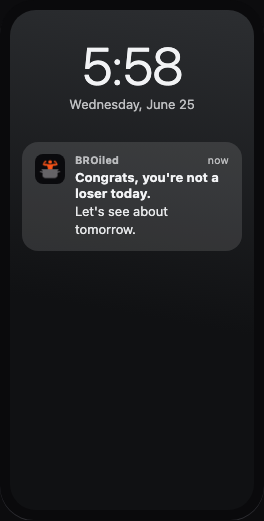
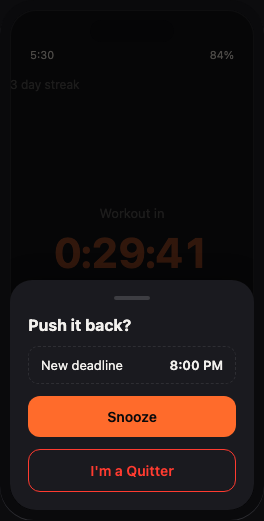
Add 12:00 PM morning reckoning push notification (frame 04).
Document the noon reckoning in plan workflow, wireframes, and README; renumber subsequent frames 05–12 and regenerate screenshots.

diff --git a/wireframes.html b/wireframes.html
@@ -267,11 +267,30 @@
           <div class="btn float">I already worked out</div>
         </div>
       </div></div>
-      <div class="note">Reckoning banner is now absolutely positioned at the top (out of flow), so the timer centers on the full screen exactly like frame 02 instead of being pushed down by the banner. Shown once, on first open the morning after a miss.</div>
+      <div class="note">Reckoning banner is absolutely positioned at the top (out of flow), so the timer centers on the full screen exactly like frame 02. Shown on first open the morning after a miss. Same copy also fires as a <b>12:00 PM push</b> (frame 04) if the user hasn't opened the app yet.</div>
+    </div>
+
+    <div class="card" id="frame-04">
+      <div class="step"><span class="num mono">04</span><span class="title">Notification — morning reckoning</span></div>
+      <div class="phone"><div class="lockscreen">
+        <div class="locktime">12:00</div>
+        <div class="lockdate">Thursday, June 26</div>
+        <div class="notifcard">
+          <div class="notif-icon">
+            <img src="logo.png" alt="BROiled" width="30" height="30" />
+          </div>
+          <div class="notif-body">
+            <div class="notif-app"><span class="brand">BROiled</span><span>now</span></div>
+            <div class="notif-title">You failed yesterday.</div>
+            <div class="notif-msg">Is this who you are, or can you be better today?</div>
+          </div>
+        </div>
+      </div></div>
+      <div class="note">Fires at <b>12:00 PM</b> the day after a missed workout — same copy as frame 03. Tapping opens home with the reckoning banner + today's countdown. Skipped if the user already opened the app and saw frame 03 today.</div>
     </div>
 
     <div class="card">
-      <div class="step"><span class="num mono">04</span><span class="title">Gut-check sheet</span></div>
+      <div class="step"><span class="num mono">05</span><span class="title">Gut-check sheet</span></div>
       <div class="phone"><div class="screen">
         <div class="island"></div>
         <div class="statusbar"><span>5:47</span><span>88%</span></div>
@@ -304,7 +323,7 @@
   <div class="rail">
 
     <div class="card">
-      <div class="step"><span class="num mono">05</span><span class="title">Notification — T-30min reminder</span></div>
+      <div class="step"><span class="num mono">06</span><span class="title">Notification — T-30min reminder</span></div>
       <div class="phone"><div class="lockscreen">
         <div class="locktime">5:30</div>
         <div class="lockdate">Wednesday, June 25</div>
@@ -323,7 +342,7 @@
     </div>
 
     <div class="card">
-      <div class="step"><span class="num mono">06</span><span class="title">Notification — miss check</span></div>
+      <div class="step"><span class="num mono">07</span><span class="title">Notification — miss check</span></div>
       <div class="phone"><div class="lockscreen">
         <div class="locktime">6:30</div>
         <div class="lockdate">Wednesday, June 25</div>
@@ -341,8 +360,8 @@
       <div class="note">Fires at <b>deadline + workout duration + 30min.</b> Copy scales with streak. Tapping opens the snooze sheet.</div>
     </div>
 
-    <div class="card" id="frame-07">
-      <div class="step"><span class="num mono">07</span><span class="title">Snooze sheet</span></div>
+    <div class="card" id="frame-08">
+      <div class="step"><span class="num mono">08</span><span class="title">Snooze sheet</span></div>
       <div class="phone"><div class="screen">
         <div class="island"></div>
         <div class="statusbar"><span>5:30</span><span>84%</span></div>
@@ -367,8 +386,8 @@
       <div class="note"><b>Uncapped.</b> No insult in the sheet itself — it arrives in the next miss-check notification. Tier by snooze count: 1 → MILD, 2–3 → SPICY, 4+ → NUCLEAR.</div>
     </div>
 
-    <div class="card" id="frame-08">
-      <div class="step"><span class="num mono">08</span><span class="title">Notification — success</span></div>
+    <div class="card" id="frame-09">
+      <div class="step"><span class="num mono">09</span><span class="title">Notification — success</span></div>
       <div class="phone"><div class="lockscreen">
         <div class="locktime">5:58</div>
         <div class="lockdate">Wednesday, June 25</div>
@@ -383,7 +402,7 @@
           </div>
         </div>
       </div></div>
-      <div class="note">Fires only when HealthKit catches it <b>while backgrounded.</b> In-app confirms go straight to frame 09a, no redundant push.</div>
+      <div class="note">Fires only when HealthKit catches it <b>while backgrounded.</b> In-app confirms go straight to frame 10a, no redundant push.</div>
     </div>
 
   </div>
@@ -391,8 +410,8 @@
   <div class="section-label">Outcome states</div>
   <div class="rail">
 
-    <div class="card" id="frame-09a">
-      <div class="step"><span class="num mono">09a</span><span class="title">Home — success</span></div>
+    <div class="card" id="frame-10a">
+      <div class="step"><span class="num mono">10a</span><span class="title">Home — success</span></div>
       <div class="phone"><div class="screen">
         <div class="island"></div>
         <div class="statusbar"><span>5:52</span><span>88%</span></div>
@@ -408,7 +427,7 @@
     </div>
 
     <div class="card">
-      <div class="step"><span class="num mono">09b</span><span class="title">Home — 4–6 day streak</span></div>
+      <div class="step"><span class="num mono">10b</span><span class="title">Home — 4–6 day streak</span></div>
       <div class="phone"><div class="screen">
         <div class="island"></div>
         <div class="statusbar"><span>7:20</span><span>76%</span></div>
@@ -428,8 +447,8 @@
       <div class="note">Same structure as frame 03 now — the streak-escalation insult sits in an absolute top banner, the timer stays centered on the screen. Escalation ladder: 2–3 days → sharper line, 4–6 days → this tier. Two more misses and it goes quiet.</div>
     </div>
 
-    <div class="card" id="frame-10">
-      <div class="step"><span class="num mono">10</span><span class="title">Home — silence (7-day give-up)</span></div>
+    <div class="card" id="frame-11">
+      <div class="step"><span class="num mono">11</span><span class="title">Home — silence (7-day give-up)</span></div>
       <div class="phone"><div class="screen">
         <div class="island"></div>
         <div class="statusbar"><span>—</span><span>—</span></div>
@@ -446,7 +465,7 @@
     </div>
 
     <div class="card">
-      <div class="step"><span class="num mono">11</span><span class="title">Settings</span></div>
+      <div class="step"><span class="num mono">12</span><span class="title">Settings</span></div>
       <div class="phone"><div class="screen">
         <div class="island"></div>
         <div class="statusbar"><span>9:41</span><span>100%</span></div>

diff --git a/plan.md b/plan.md
@@ -9,7 +9,7 @@ todos:
     content: "Phase 0: HealthKitService — deadline query (any source), manual 'I already worked out' fallback button"
     status: pending
   - id: phase0-scheduler
-    content: "Phase 0: deadline notification, uncapped escalating snooze, morning reckoning message, backhanded-celebration success state"
+    content: "Phase 0: deadline notification, 12:00 PM reckoning push, uncapped escalating snooze, morning reckoning message, backhanded-celebration success state"
     status: pending
   - id: phase0-insults
     content: "Phase 0: static curated insult list (~40 lines, mild/spicy/nuclear tagged, no persona system yet), plain in-app miss/success screens"
@@ -97,8 +97,9 @@ Phase 0 is intentionally small enough to build in days and use on your own phone
 ```mermaid
 flowchart TD
   setup[Set weekday/time/duration] --> morning[Morning: show countdown]
-  morning -->|yesterday was a miss| reckoning["You failed yesterday" + challenge line]
-  reckoning --> morning
+  morning -->|yesterday was a miss| reckoning["In-app: You failed yesterday"]
+  reckoning --> noonPush["12:00 PM reckoning push (same copy)"]
+  noonPush --> morning
   morning --> preReminder["T-30min: reminder notification"]
   preReminder --> checkTime["T+duration+30min: check HealthKit"]
   checkTime -->|workout found or manually confirmed| success[Backhanded celebration, push if backgrounded]
@@ -115,13 +116,14 @@ flowchart TD
 ```
 
 **Notification schedule (Phase 0):**
-1. **T-30min before deadline** — reminder push ("30 minutes left today.") so the deadline doesn't arrive as a surprise. Tapping opens the snooze sheet directly, since that's the only decision left to make at that point.
-2. **T + workout duration + 30min after deadline** — this is the actual miss check, not the deadline itself, since HealthKit needs time for a just-started workout to land even if the user heads out right at the deadline. If nothing's found, fires "You haven't worked out. Will you later?" and tapping opens the snooze sheet. Copy scales with streak — neutral on a clean history, pulling from the escalation ladder on a multi-day streak.
-3. **On success** — if HealthKit picks up the workout while the app is backgrounded, the backhanded-celebration line fires as a push. If the user is already in-app and taps "I already worked out," it just shows inline (no notification needed, they're already looking at it).
+1. **12:00 PM (day after a miss)** — morning reckoning push: "You failed yesterday." / "Is this who you are, or can you be better today?" — same copy as the in-app banner (frame 03). Only fires if yesterday was missed. Tapping opens home with reckoning + today's countdown. Suppressed if the user already opened the app and saw the reckoning banner today.
+2. **T-30min before deadline** — reminder push ("30 minutes left today.") so the deadline doesn't arrive as a surprise. Tapping opens the snooze sheet directly, since that's the only decision left to make at that point.
+3. **T + workout duration + 30min after deadline** — this is the actual miss check, not the deadline itself, since HealthKit needs time for a just-started workout to land even if the user heads out right at the deadline. If nothing's found, fires "You haven't worked out. Will you later?" and tapping opens the snooze sheet. Copy scales with streak — neutral on a clean history, pulling from the escalation ladder on a multi-day streak.
+4. **On success** — if HealthKit picks up the workout while the app is backgrounded, the backhanded-celebration line fires as a push. If the user is already in-app and taps "I already worked out," it just shows inline (no notification needed, they're already looking at it).
 
 **Snooze contract:** uncapped, not a fixed 2/day limit. The snooze sheet itself doesn't show an insult — the mini-insult arrives later, in the next miss-check notification (see schedule above), and escalates per snooze count that day: **snooze 1 → MILD pool, snoozes 2–3 → SPICY pool, snooze 4+ → NUCLEAR pool**, cycling once exhausted. Snoozing re-arms the T-30min/T+duration+30min notification pair against the new deadline.
 
-**Morning reckoning, not same-day failure:** if yesterday's deadline was missed (i.e., "I'm a Quitter" was tapped, or the day ran out with no response), the *next morning's* first open leads with "You failed yesterday" + a challenge line ("Is this who you are, or can you be better today?"), then today's countdown starts underneath. No full-screen shame mid-day when the user can't do anything about it yet — the reckoning is deliberately delayed to the next morning.
+**Morning reckoning, not same-day failure:** if yesterday's deadline was missed (i.e., "I'm a Quitter" was tapped, or the day ran out with no response), the *next morning* delivers the reckoning two ways: a **12:00 PM push** (same copy as frame 03) and an **in-app banner on first open** ("You failed yesterday" + challenge line), then today's countdown underneath. No full-screen shame mid-day when the user can't do anything about it yet — the reckoning is deliberately delayed to the next calendar day. If they already opened the app and saw the banner, skip the noon push.
 
 **Silence mechanic:** after a 7-day miss streak, the app fires one final "I've accepted you're not destined to be jacked. I'm giving up on you. Talk to me when you can prove you're worth it." line and then **stops notifying entirely** — no countdowns, no morning messages, no reminders — until a workout is logged, which triggers a skeptical reactivation message and resumes normal operation.
 
@@ -264,14 +266,15 @@ Phase 1 adds `Persona`/`toneLevel` to `UserSettings` and namespaces insults by p
 1. **Onboarding — Set your schedule** — pick active weekdays, then set a deadline time **per active day** (not one shared time), plus minimum workout duration; HealthKit permission requested once, first run only
 2. **Home — Countdown (on track)** — today's countdown to deadline, manual "I already worked out" button
 3. **Home — Morning reckoning** — shown first if yesterday was a miss: "You failed yesterday" + challenge line, then today's countdown
-4. **Gut-check sheet** — shown on tapping "I already worked out": "Did you actually work out today?" / Yes, I did / ...no, I didn't
-5. **Notification — T-30min reminder** — lock-screen banner, taps into the snooze sheet
-6. **Notification — miss check** — lock-screen banner ("You haven't worked out. Will you later?"), taps into the snooze sheet
-7. **Snooze sheet** — pick a new deadline time; buttons are **Snooze** / **I'm a Quitter**
-8. **Notification — success** — lock-screen banner with the backhanded-celebration line, fires when HealthKit catches the workout in the background
-9. **Home — Success (backhanded celebration)** — in-app version, shown when the day's workout is verified/confirmed while the app is open
-10. **Home — Silence state** — after a 7-day miss streak: the finale line, no countdown, single "log a workout" action to reactivate
-11. **Settings** — edit schedule (per-day times), HealthKit permission status. No data-deletion option in Phase 0 — not needed yet.
+4. **Notification — Morning reckoning (12:00 PM)** — lock-screen push the day after a miss; same copy as frame 03. Tapping opens home with banner + countdown. Skipped if user already saw in-app reckoning today.
+5. **Gut-check sheet** — shown on tapping "I already worked out": "Did you actually work out today?" / Yes, I did / ...no, I didn't
+6. **Notification — T-30min reminder** — lock-screen banner, taps into the snooze sheet
+7. **Notification — miss check** — lock-screen banner ("You haven't worked out. Will you later?"), taps into the snooze sheet
+8. **Snooze sheet** — pick a new deadline time; buttons are **Snooze** / **I'm a Quitter**
+9. **Notification — success** — lock-screen banner with the backhanded-celebration line, fires when HealthKit catches the workout in the background
+10. **Home — Success (backhanded celebration)** — in-app version, shown when the day's workout is verified/confirmed while the app is open
+11. **Home — Silence state** — after a 7-day miss streak: the finale line, no countdown, single "log a workout" action to reactivate
+12. **Settings** — edit schedule (per-day times), HealthKit permission status. No data-deletion option in Phase 0 — not needed yet.
 
 ---
 

diff --git a/README.md b/README.md
@@ -15,13 +15,41 @@ BROiled is an iOS workout accountability app with tough-love energy. Set a per-d
 1. **Onboarding** — pick workout days, set a **deadline per day**, and choose a minimum duration.
 2. **Countdown** — home screen shows time left until today's deadline (HealthKit-verified).
 3. **Miss the window** — notifications escalate (MILD → SPICY → NUCLEAR). Snooze pushes the deadline back.
-4. **Morning reckoning** — after a miss, next open starts with yesterday's failure + today's countdown.
+4. **Morning reckoning** — day after a miss: in-app banner on first open **and** a 12:00 PM push with the same copy.
 5. **Success** — backhanded celebration (bronze, not cheerleader green).
 6. **Silence** — after 7 consecutive misses, the app stops nagging until you log a workout again.
 
-Open [`wireframes.html`](wireframes.html) in a browser for all 11 Phase 0 screens with design notes.
+Open [`wireframes.html`](wireframes.html) in a browser for all 12 Phase 0 screens with design notes.
 
 ## Screenshots
+
+### Countdown (on track)
+
+![Home — on track](docs/screenshots/frame-02.png)
+
+### Morning reckoning (in-app)
+
+![Home — morning reckoning](docs/screenshots/frame-03.png)
+
+### Morning reckoning (12:00 PM push)
+
+![Notification — morning reckoning](docs/screenshots/frame-04.png)
+
+### Snooze sheet
+
+![Snooze sheet](docs/screenshots/frame-08.png)
+
+### Backhanded success
+
+![Home — success](docs/screenshots/frame-10a.png)
+
+### Lock screen notification
+
+![Notification — success](docs/screenshots/frame-09.png)
+
+### 7-day silence
+
+![Home — silence](docs/screenshots/frame-11.png)
 
 ### Full wireframe rail
 